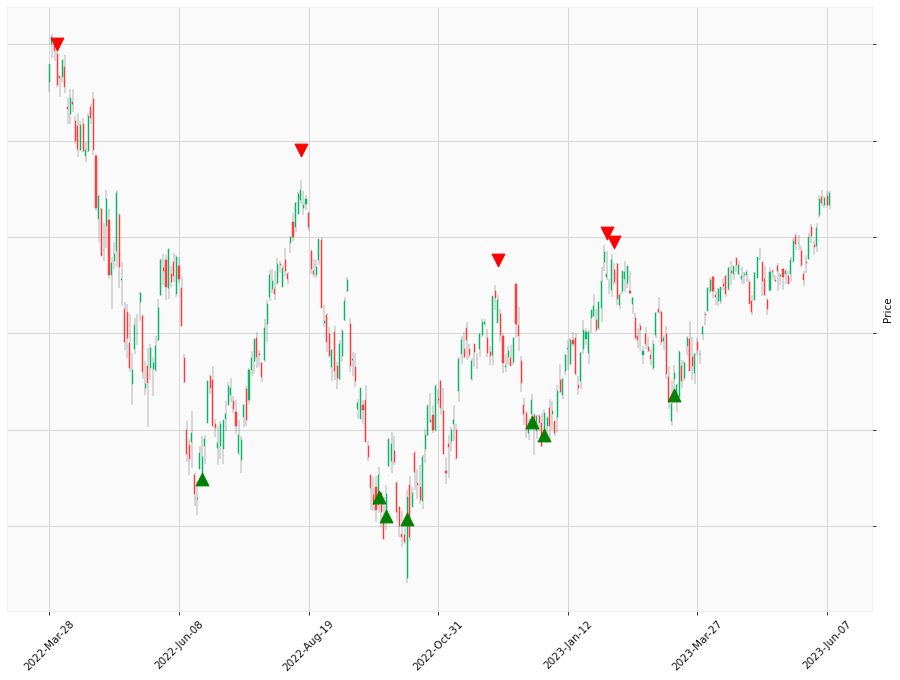
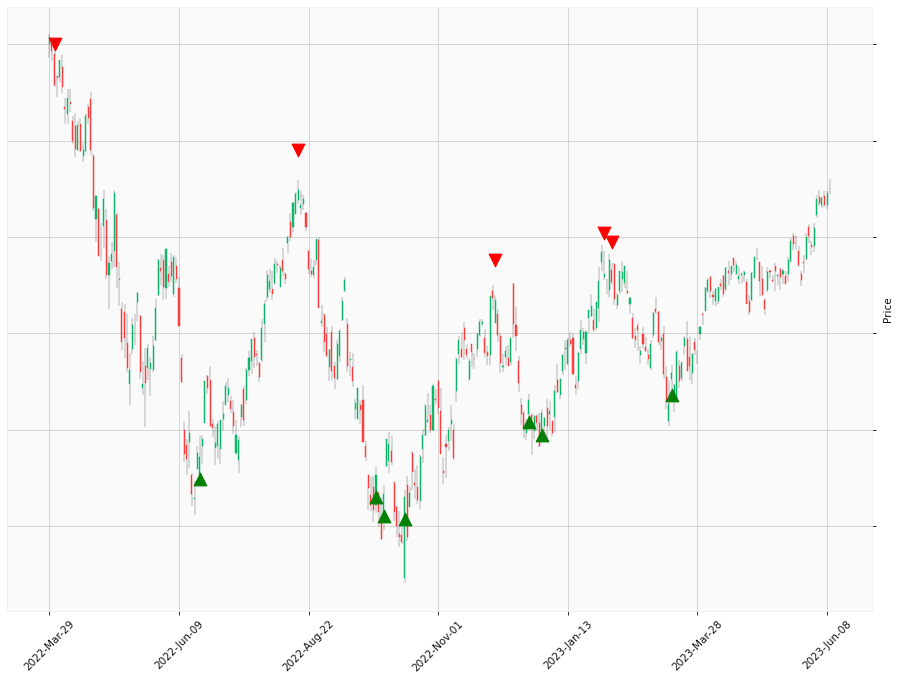
See https://github.com/HappyLabz/HappyLabz_v1/commit/3a0bef3d81cbab45c4aae7ba64f9b24545a3023a from refs/heads/main

diff --git a/TSLA.md b/TSLA.md
@@ -112,9 +112,9 @@
         <td>10</td>
         <td>Long</td>
         <td>Apr 24 2023 Close</td>
-        <td>44.48 %</td>
-        <td>243.85 %</td>
-        <td>649.26 %</td>
+        <td>50.35 %</td>
+        <td>249.71 %</td>
+        <td>679.69 %</td>
     </tr>
     
 </table>
@@ -130,23 +130,23 @@
     <tbody>
         <tr>
             <td>TSLA (Buy and Hold)</td>
-            <td>2022-04-05 Close <b>-</b> 2023-06-08 Close</td>
-            <td>-35.43 %</td>
+            <td>2022-04-05 Close <b>-</b> 2023-06-09 Close</td>
+            <td>-32.81 %</td>
         </tr>
         <tr>
             <td>TSLA (HLT Cumulative % Gain)</td>
-            <td>2022-04-05 Close <b>-</b> 2023-06-08 Close</td>
-            <td>243.85 %</td>
+            <td>2022-04-05 Close <b>-</b> 2023-06-09 Close</td>
+            <td>249.71 %</td>
         </tr>
         <tr>
             <td>TSLA (HLT Reinvested % Gain)</td>
-            <td>2022-04-05 Close <b>-</b> 2023-06-08 Close</td>
-            <td>649.26 %</td>
+            <td>2022-04-05 Close <b>-</b> 2023-06-09 Close</td>
+            <td>679.69 %</td>
         </tr>
         <tr>
             <td>S&P 500 (Buy and Hold)</td>
-            <td>2022-04-05 Close <b>-</b> 2023-06-08 Close</td>
-            <td>-4.86 %</td>
+            <td>2022-04-05 Close <b>-</b> 2023-06-09 Close</td>
+            <td>-4.68 %</td>
         </tr>
     </tbody>
 </table>

diff --git a/SPY.md b/SPY.md
@@ -128,9 +128,9 @@
         <td>12</td>
         <td>Long</td>
         <td>Mar 14 2023 Close</td>
-        <td>9.55 %</td>
-        <td>82.07 %</td>
-        <td>116.78 %</td>
+        <td>9.74 %</td>
+        <td>82.26 %</td>
+        <td>117.17 %</td>
     </tr>
     
 </table>
@@ -146,23 +146,23 @@
     <tbody>
         <tr>
             <td>SPY (Buy and Hold)</td>
-            <td>2022-03-31 Close <b>-</b> 2023-06-08 Close</td>
-            <td>-4.98 %</td>
+            <td>2022-03-31 Close <b>-</b> 2023-06-09 Close</td>
+            <td>-4.81 %</td>
         </tr>
         <tr>
             <td>SPY (HLT Cumulative % Gain)</td>
-            <td>2022-03-31 Close <b>-</b> 2023-06-08 Close</td>
-            <td>82.07 %</td>
+            <td>2022-03-31 Close <b>-</b> 2023-06-09 Close</td>
+            <td>82.26 %</td>
         </tr>
         <tr>
             <td>SPY (HLT Reinvested % Gain)</td>
-            <td>2022-03-31 Close <b>-</b> 2023-06-08 Close</td>
-            <td>116.78 %</td>
+            <td>2022-03-31 Close <b>-</b> 2023-06-09 Close</td>
+            <td>117.17 %</td>
         </tr>
         <tr>
             <td>S&P 500 (Buy and Hold)</td>
-            <td>2022-03-31 Close <b>-</b> 2023-06-08 Close</td>
-            <td>-4.98 %</td>
+            <td>2022-03-31 Close <b>-</b> 2023-06-09 Close</td>
+            <td>-4.81 %</td>
         </tr>
     </tbody>
 </table>
